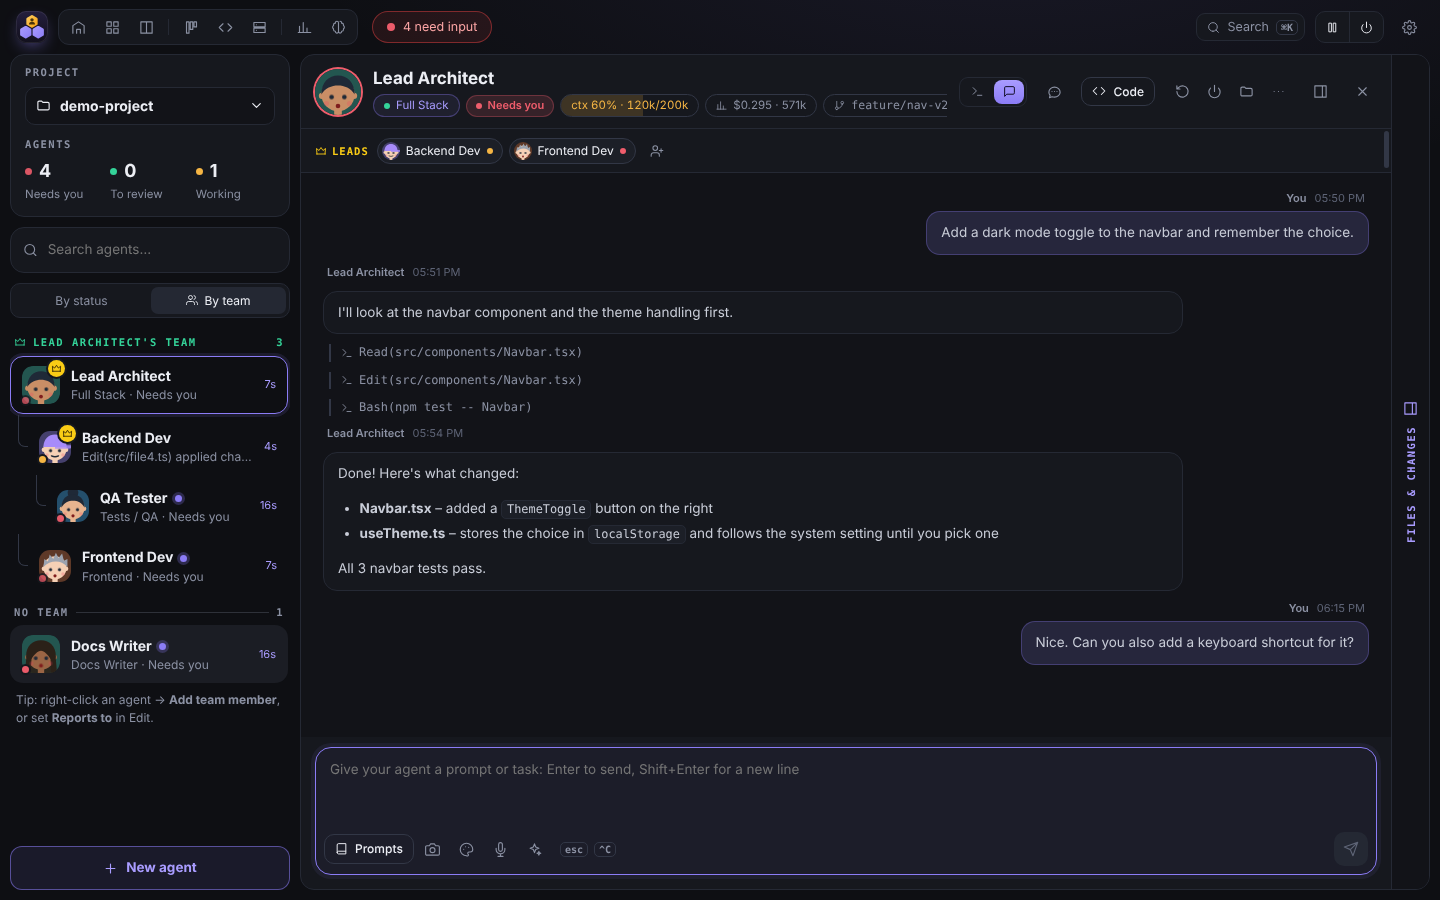
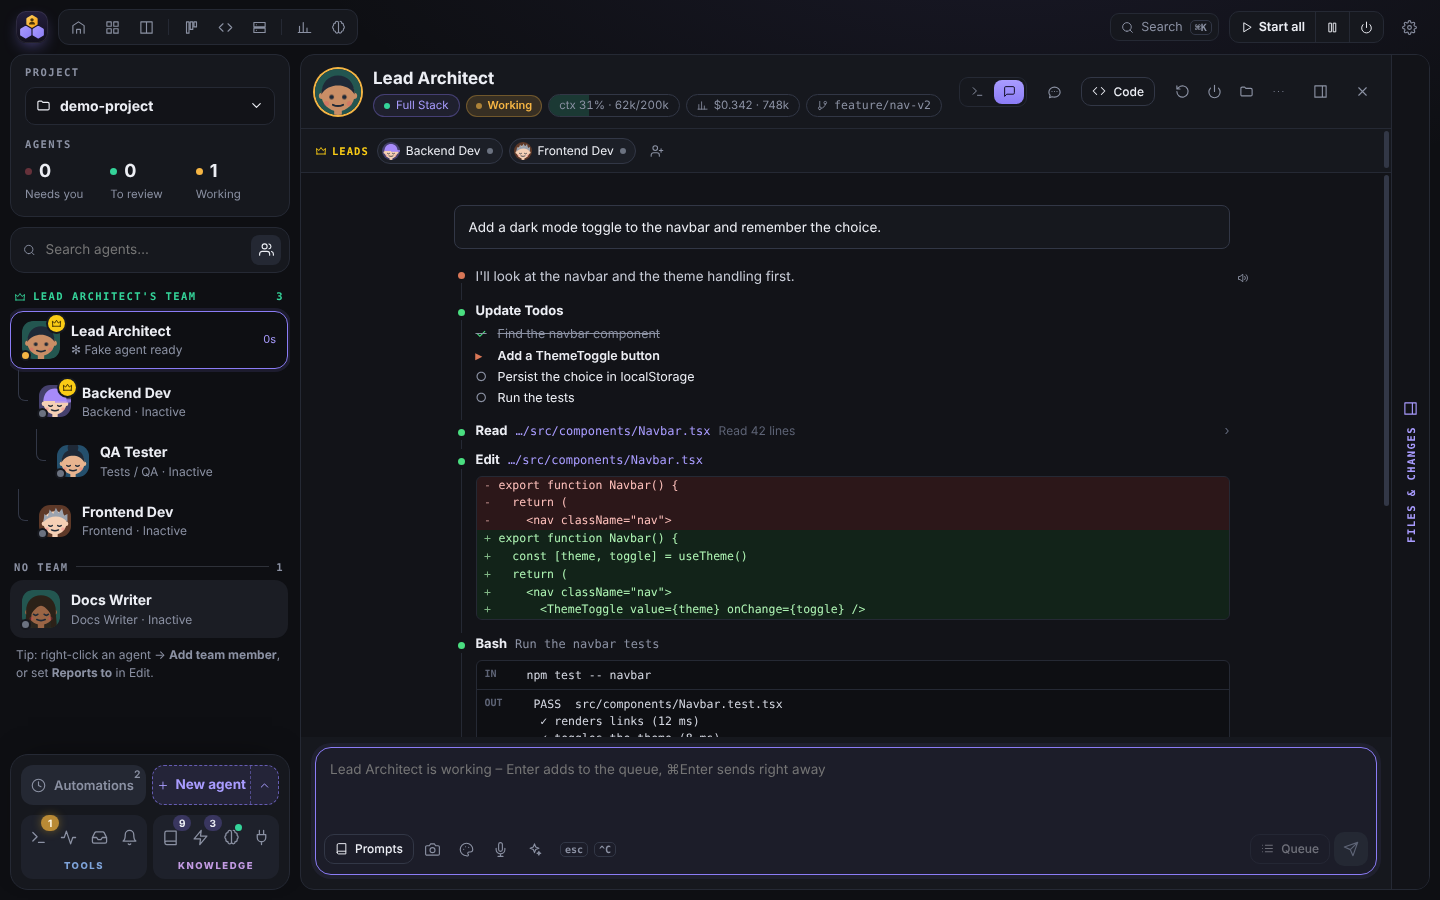
feat(chat): conversation view styled like Claude Code in VS Code
- your messages in boxes, replies as plain text on a timeline with status dots
- tool calls as compact rows: Edit / Write show a red-green diff, Bash shows IN / OUT,
  Read and Search show counts, TodoWrite shows the checklist; others expand
- file names open in the editor; long output collapses with "+N lines"
- "✻ Working…" shimmer with what the agent is doing while a turn runs
- works for Claude Code, Codex and Gemini sessions (tool names normalised)

Claude-Session: https://claude.ai/code/session_01JfQJkDe4SvPCHjX8Yhda88

diff --git a/src/renderer/src/components/ChatView.tsx b/src/renderer/src/components/ChatView.tsx
@@ -1,7 +1,7 @@
 import { useEffect, useMemo, useRef, useState } from 'react'
 import { Marked } from 'marked'
 import DOMPurify from 'dompurify'
-import type { Conversation } from '@shared/chat'
+import type { ChatItem, Conversation } from '@shared/chat'
 import { useStore } from '../store'
 import { Icon } from './common'
 import { fmtTok } from './UsageView'
@@ -47,58 +47,213 @@ export function ContextBadge({ conv }: { conv: Conversation | null }) {
   )
 }
 
-/** The terminal session read as a chat: your messages, replies and collapsed tool calls. */
+/* ---------------- VS Code–style conversation ---------------- */
+
+type Json = Record<string, unknown>
+const parse = (s?: string): Json | null => {
+  if (!s) return null
+  try {
+    return JSON.parse(s) as Json
+  } catch {
+    return null
+  }
+}
+const str = (v: unknown): string => (typeof v === 'string' ? v : v === undefined || v === null ? '' : JSON.stringify(v))
+
+/** normalise tool names across Claude Code, Codex and Gemini */
+function toolKind(name = ''): 'edit' | 'write' | 'read' | 'bash' | 'search' | 'todo' | 'web' | 'task' | 'other' {
+  const n = name.toLowerCase()
+  if (/^(edit|multiedit|replace|apply_patch|str_replace)/.test(n)) return 'edit'
+  if (/^(write|write_file|create_file)/.test(n)) return 'write'
+  if (/^(read|read_file|read_many_files|view|notebookread)/.test(n)) return 'read'
+  if (/^(bash|shell|run_shell_command|local_shell|exec)/.test(n)) return 'bash'
+  if (/^(grep|glob|ls|list_directory|search_file_content|find|search)/.test(n)) return 'search'
+  if (/^(todowrite|update_plan|todo)/.test(n)) return 'todo'
+  if (/^(webfetch|websearch|web_fetch|google_web_search)/.test(n)) return 'web'
+  if (/^(task|agent)/.test(n)) return 'task'
+  return 'other'
+}
+const TOOL_LABEL: Record<string, string> = { edit: 'Edit', write: 'Write', read: 'Read', bash: 'Bash', search: 'Search', todo: 'Update Todos', web: 'Web', task: 'Task' }
+
+function Diff({ oldText, newText }: { oldText: string; newText: string }) {
+  const [all, setAll] = useState(false)
+  const lines = [...oldText.split('\n').map((l) => ['-', l] as const), ...newText.split('\n').map((l) => ['+', l] as const)].filter(([, l], i, arr) => !(l === '' && i === arr.length - 1))
+  const shown = all ? lines : lines.slice(0, 14)
+  return (
+    <div className="cc-diff mono">
+      {shown.map(([k, l], i) => (
+        <div key={i} className={k === '+' ? 'add' : 'del'}><span>{k}</span>{l || ' '}</div>
+      ))}
+      {lines.length > 14 && <button className="cc-more" onClick={() => setAll(!all)}>{all ? 'Show less' : `Show ${lines.length - 14} more lines`}</button>}
+    </div>
+  )
+}
+
+function Output({ text, lines = 6 }: { text: string; lines?: number }) {
+  const [all, setAll] = useState(false)
+  const rows = text.replace(/\s+$/, '').split('\n')
+  if (!text.trim()) return null
+  return (
+    <div className="cc-out mono">
+      <pre>{(all ? rows : rows.slice(0, lines)).join('\n')}</pre>
+      {rows.length > lines && <button className="cc-more" onClick={() => setAll(!all)}>{all ? 'Show less' : `+${rows.length - lines} lines`}</button>}
+    </div>
+  )
+}
+
+function ToolRow({ it, cwd, pending }: { it: ChatItem; cwd: string; pending: boolean }) {
+  const [open, setOpen] = useState(false)
+  const kind = toolKind(it.tool)
+  const a = parse(it.input) ?? {}
+  const file = str(a.file_path ?? a.path ?? a.absolute_path ?? a.notebook_path)
+  const rel = file && cwd && file.startsWith(cwd + '/') ? file.slice(cwd.length + 1) : file.split('/').length > 4 ? `…/${file.split('/').slice(-3).join('/')}` : file
+  const cmd = Array.isArray(a.command) ? (a.command as string[]).join(' ').replace(/^bash -lc /, '') : str(a.command)
+  const label = TOOL_LABEL[kind] ?? it.tool ?? 'Tool'
+  const arg =
+    kind === 'bash' ? str(a.description) || cmd.split('\n')[0]
+    : kind === 'search' ? str(a.pattern ?? a.query ?? a.path)
+    : kind === 'web' ? str(a.url ?? a.query)
+    : kind === 'task' ? str(a.description ?? a.prompt).slice(0, 120)
+    : kind === 'todo' ? ''
+    : rel || it.text.replace(/^[^(]*\(|\)$/g, '')
+  const resLines = (it.result ?? '').split('\n').filter(Boolean).length
+  const summary =
+    kind === 'read' && it.result ? `Read ${resLines} line${resLines === 1 ? '' : 's'}`
+    : kind === 'search' && it.result ? `${resLines} result${resLines === 1 ? '' : 's'}`
+    : ''
+  const openFile = (): void => {
+    if (!file) return
+    if (cwd && file.startsWith(cwd + '/')) useStore.getState().openCode(cwd, file.slice(cwd.length + 1))
+    else window.api.openPath(file)
+  }
+  const edits: { o: string; n: string }[] =
+    kind === 'edit'
+      ? Array.isArray(a.edits)
+        ? (a.edits as Json[]).map((e) => ({ o: str(e.old_string), n: str(e.new_string) }))
+        : [{ o: str(a.old_string ?? a.old_str), n: str(a.new_string ?? a.new_str) }]
+      : []
+  const todos = kind === 'todo' ? ((a.todos ?? a.plan ?? []) as Json[]) : []
+  const body = (() => {
+    if (kind === 'edit' && edits.some((e) => e.o || e.n)) return edits.map((e, i) => <Diff key={i} oldText={e.o} newText={e.n} />)
+    if (kind === 'write' && a.content) return <Diff oldText="" newText={str(a.content).split('\n').slice(0, 200).join('\n')} />
+    if (kind === 'bash')
+      return (
+        <div className="cc-io">
+          <div className="cc-io-row"><span>IN</span><pre className="mono">{cmd}</pre></div>
+          {it.result !== undefined && <div className="cc-io-row"><span>OUT</span><Output text={it.result} lines={8} /></div>}
+        </div>
+      )
+    if (kind === 'todo' && todos.length)
+      return (
+        <ul className="cc-todos">
+          {todos.map((t, i) => {
+            const st = str(t.status)
+            return <li key={i} className={st}><i>{st === 'completed' ? '✓' : st === 'in_progress' ? '▸' : '○'}</i>{str(t.content ?? t.step ?? t.title)}</li>
+          })}
+        </ul>
+      )
+    return null
+  })()
+  const expandable = !body && (it.input && it.input !== '{}' || it.result)
+  return (
+    <div className={`cc-item cc-tool ${it.error ? 'err' : ''} ${pending ? 'pending' : ''}`}>
+      <div className="cc-line" onClick={() => expandable && setOpen(!open)} style={{ cursor: expandable ? 'pointer' : undefined }}>
+        <b>{label}</b>
+        {arg && (kind === 'read' || kind === 'edit' || kind === 'write') && file ? (
+          <button className="cc-file mono" title={file} onClick={(e) => (e.stopPropagation(), openFile())}>{arg}</button>
+        ) : arg ? <span className="cc-arg mono" title={arg}>{arg}</span> : null}
+        {summary && <span className="cc-sum">{summary}</span>}
+        {it.error && <span className="cc-errtag">error</span>}
+        {expandable && <span className={`cc-chev ${open ? 'open' : ''}`}>›</span>}
+      </div>
+      {body}
+      {it.error && it.result && !body && <Output text={it.result} lines={4} />}
+      {open && expandable && (
+        <div className="cc-raw">
+          {it.input && it.input !== '{}' && <pre className="mono">{it.input}</pre>}
+          {it.result && <Output text={it.result} lines={12} />}
+        </div>
+      )}
+    </div>
+  )
+}
+
+/** The agent's session as a conversation – styled like Claude Code in VS Code. */
 export function ChatView({ agentId, conv }: { agentId: string; conv: (Conversation & { none?: boolean }) | null }) {
   const end = useRef<HTMLDivElement>(null)
-  const box = useRef<HTMLDivElement>(null)
   const stick = useRef(true)
+  const agent = useStore((s) => s.app.agents.find((a) => a.id === agentId))
+  const status = useStore((s) => s.runtimes[agentId]?.status)
+  const activity = useStore((s) => s.lastLines[agentId])
+  const [cwd, setCwd] = useState('')
   const [speaking, setSpeaking] = useState<number | null>(null)
   useEffect(() => () => window.speechSynthesis?.cancel(), [])
-  const agent = useStore((s) => s.app.agents.find((a) => a.id === agentId))
+  useEffect(() => {
+    window.api.agentCwd(agentId).then(setCwd).catch(() => undefined)
+  }, [agentId])
   const items = conv?.items ?? []
   const rendered = useMemo(() => items.map((it) => (it.kind === 'tool' ? '' : html(it.text))), [items])
   useEffect(() => {
     if (stick.current) end.current?.scrollIntoView({ block: 'end' })
-  }, [items.length])
+  }, [items.length, status])
 
   if (!agent || !['claude', 'codex', 'gemini'].includes(agent.providerId))
     return <div className="chat-empty muted">The conversation view reads Claude Code, Codex and Gemini sessions. Use the terminal for {agent?.name ?? 'this agent'}.</div>
   if (!conv) return <div className="chat-empty muted">Loading conversation…</div>
   if (conv.none || !items.length)
-    return <div className="chat-empty muted">No conversation yet – it appears here once {agent.name} gets its first message.</div>
+    return (
+      <div className="chat-empty">
+        <div className="cc-hello">
+          <b>{agent.name}</b>
+          <span className="muted">{agent.role} · {agent.providerId === 'claude' ? 'Claude Code' : agent.providerId === 'codex' ? 'Codex' : 'Gemini'}</span>
+          <p className="muted small">Ask for a change below – the conversation shows up here.</p>
+        </div>
+      </div>
+    )
+  const lastUser = items.map((x) => x.kind).lastIndexOf('user')
+  const working = status === 'working'
 
   return (
-    <div className="chat" ref={box} onScroll={(e) => {
+    <div className="cc" onScroll={(e) => {
       const el = e.currentTarget
       stick.current = el.scrollHeight - el.scrollTop - el.clientHeight < 80
     }}>
-      {items.map((it, i) =>
-        it.kind === 'tool' ? (
-          <details key={i} className={`chat-tool ${it.error ? 'err' : ''}`}>
-            <summary><Icon name="terminal" size={12} /> <span className="mono">{it.text}</span>{it.error && <em>error</em>}</summary>
-            {it.input && it.input !== '{}' && <pre className="mono">{it.input}</pre>}
-            {it.result && <pre className="mono res">{it.result}</pre>}
-          </details>
-        ) : (
-          <div key={i} className={`chat-msg ${it.kind}`}>
-            <div className="chat-who">{it.kind === 'user' ? 'You' : agent.name}{it.at ? <time>{new Date(it.at).toLocaleTimeString([], { hour: '2-digit', minute: '2-digit' })}</time> : null}
-              {it.kind === 'assistant' && (
-                <button className={`icon-btn chat-speak ${speaking === i ? 'on' : ''}`} title={speaking === i ? 'Stop reading' : 'Read aloud'} onClick={() => {
-                  if (speaking === i) {
-                    window.speechSynthesis?.cancel()
-                    setSpeaking(null)
-                  } else {
-                    setSpeaking(i)
-                    speak(it.text, () => setSpeaking((x) => (x === i ? null : x)))
-                  }
-                }}><Icon name="volume" size={12} /></button>
-              )}
+      <div className="cc-col">
+        {items.map((it, i) =>
+          it.kind === 'user' ? (
+            <div key={i} className="cc-user">
+              <div className="md-body chat-body" dangerouslySetInnerHTML={{ __html: rendered[i] }} />
+              {it.at ? <time>{new Date(it.at).toLocaleTimeString([], { hour: '2-digit', minute: '2-digit' })}</time> : null}
             </div>
-            <div className="md-body chat-body" dangerouslySetInnerHTML={{ __html: rendered[i] }} />
+          ) : it.kind === 'tool' ? (
+            <ToolRow key={i} it={it} cwd={cwd} pending={working && i > lastUser && it.result === undefined && i === items.length - 1} />
+          ) : (
+            <div key={i} className="cc-item cc-text">
+              <div className="md-body chat-body" dangerouslySetInnerHTML={{ __html: rendered[i] }} />
+              <button className={`icon-btn chat-speak ${speaking === i ? 'on' : ''}`} title={speaking === i ? 'Stop reading' : 'Read aloud'} onClick={() => {
+                if (speaking === i) {
+                  window.speechSynthesis?.cancel()
+                  setSpeaking(null)
+                } else {
+                  setSpeaking(i)
+                  speak(it.text, () => setSpeaking((x) => (x === i ? null : x)))
+                }
+              }}><Icon name="volume" size={12} /></button>
+            </div>
+          )
+        )}
+        {working && (
+          <div className="cc-working">
+            <span className="cc-spark">✻</span>
+            <span className="shimmer">{(() => {
+              const t = (activity ?? '').replace(/^[\s✻✽✢✳∗*·●•⏺>]+/, '').trim()
+              return t && !/^(Working|Thinking)/i.test(t) && !/ready$/i.test(t) ? t : 'Working…'
+            })()}</span>
           </div>
-        )
-      )}
-      <div ref={end} />
+        )}
+        {status === 'waiting' && items[items.length - 1]?.kind !== 'user' && <div className="cc-turn muted small">Waiting for your reply</div>}
+        <div ref={end} />
+      </div>
     </div>
   )
 }

diff --git a/src/renderer/src/styles.css b/src/renderer/src/styles.css
@@ -1470,3 +1470,65 @@ body.resizing-y, body.resizing-y * { cursor: row-resize !important; user-select:
 .mock-ed .srv-bar input { height: 32px; }
 .mock-ed .srv-bar .link-btn { align-self: center; }
 .terminal { overflow: hidden; }
+
+/* ---------- conversation (Claude Code in VS Code style) ---------- */
+.cc { height: 100%; overflow: auto; background: var(--bg-2); padding: 18px 0 28px; }
+.cc-col { max-width: 820px; margin: 0 auto; padding: 0 22px; display: flex; flex-direction: column; gap: 4px; }
+.cc .chat-body { padding: 0 !important; background: none !important; border: 0 !important; border-radius: 0; font-size: 13.5px !important; line-height: 1.65 !important; }
+.cc-user { position: relative; margin: 14px 0 8px; padding: 10px 14px; border-radius: 8px; background: var(--panel); border: 1px solid var(--border-2); }
+.cc-user .chat-body { color: var(--text); }
+.cc-user time { position: absolute; right: 10px; bottom: -16px; font-size: 10.5px; color: var(--dim); opacity: 0; transition: opacity .15s; }
+.cc-user:hover time { opacity: 1; }
+.cc-item { position: relative; padding: 3px 0 3px 22px; }
+.cc-item::before { content: ''; position: absolute; left: 4px; top: 11px; width: 7px; height: 7px; border-radius: 50%; background: var(--muted); }
+.cc-item::after { content: ''; position: absolute; left: 7px; top: 22px; bottom: -6px; width: 1px; background: var(--border); }
+.cc-item:last-of-type::after, .cc-item:has(+ .cc-user)::after, .cc-item:has(+ .cc-working)::after { display: none; }
+.cc-text::before { background: #d97757; }
+.cc-text { padding-top: 4px; padding-bottom: 6px; }
+.cc-text .chat-speak { position: absolute; right: -28px; top: 2px; }
+.cc-text:hover .chat-speak { opacity: 1; }
+.cc-tool::before { background: #4ade80; }
+.cc-tool.err::before { background: #f87171; }
+.cc-tool.pending::before { background: var(--muted); animation: pulse 1.2s infinite; }
+.cc-line { display: flex; align-items: baseline; gap: 8px; min-width: 0; font-size: 13px; }
+.cc-line b { font-weight: 700; color: var(--text); flex: none; }
+.cc-arg, .cc-file { min-width: 0; overflow: hidden; text-overflow: ellipsis; white-space: nowrap; font-size: 12px; color: var(--muted); }
+.cc-file { border: 0; background: none; padding: 0; cursor: pointer; text-align: left; color: var(--accent-2); }
+.cc-file:hover { text-decoration: underline; }
+.cc-sum { font-size: 12px; color: var(--dim); flex: none; }
+.cc-errtag { font-size: 11px; color: #f87171; flex: none; }
+.cc-chev { margin-left: auto; color: var(--dim); transition: transform .15s; flex: none; }
+.cc-chev.open { transform: rotate(90deg); }
+.cc-diff { margin: 6px 0 4px; border: 1px solid var(--border); border-radius: 6px; overflow: hidden; font-size: 11.5px; line-height: 1.55; background: var(--bg); }
+.cc-diff > div { display: flex; white-space: pre-wrap; word-break: break-word; padding: 0 10px 0 0; }
+.cc-diff > div > span { flex: none; width: 22px; text-align: center; opacity: .7; user-select: none; }
+.cc-diff .add { background: rgba(46, 160, 67, .14); color: #aff5b4; }
+.cc-diff .del { background: rgba(248, 81, 73, .13); color: #ffc1bc; }
+:root[data-theme="light"] .cc-diff .add { color: #116329; } :root[data-theme="light"] .cc-diff .del { color: #82071e; }
+.cc-more { display: block; width: 100%; border: 0; border-top: 1px solid var(--border); background: none; color: var(--muted); font-size: 11.5px; padding: 4px; cursor: pointer; }
+.cc-more:hover { color: var(--text); }
+.cc-io { margin: 6px 0 4px; border: 1px solid var(--border); border-radius: 6px; overflow: hidden; background: var(--bg); }
+.cc-io-row { display: grid; grid-template-columns: 40px minmax(0, 1fr); border-top: 1px solid var(--border); }
+.cc-io-row:first-child { border-top: 0; }
+.cc-io-row > span { font: 700 10px ui-monospace, Menlo, monospace; color: var(--dim); padding: 7px 0 0 8px; }
+.cc-io pre, .cc-out pre { margin: 0; padding: 6px 10px; font-size: 11.5px; white-space: pre-wrap; word-break: break-word; max-height: 360px; overflow: auto; color: var(--code-text, var(--text)); }
+.cc-out { min-width: 0; }
+.cc-out .cc-more { text-align: left; padding-left: 10px; }
+.cc-raw { margin: 6px 0; border: 1px solid var(--border); border-radius: 6px; background: var(--bg); overflow: hidden; }
+.cc-raw > pre { margin: 0; padding: 6px 10px; font-size: 11.5px; max-height: 260px; overflow: auto; white-space: pre-wrap; border-bottom: 1px solid var(--border); }
+.cc-todos { list-style: none; margin: 6px 0 4px; padding: 0; font-size: 12.5px; display: flex; flex-direction: column; gap: 3px; }
+.cc-todos li { display: flex; gap: 8px; color: var(--text); }
+.cc-todos li i { font-style: normal; width: 14px; color: var(--muted); }
+.cc-todos li.completed { color: var(--muted); text-decoration: line-through; }
+.cc-todos li.completed i { color: #4ade80; }
+.cc-todos li.in_progress { font-weight: 600; }
+.cc-todos li.in_progress i { color: #d97757; }
+.cc-working { display: flex; align-items: center; gap: 8px; padding: 8px 0 0 2px; font-size: 13px; color: #d97757; }
+.cc-spark { display: inline-block; animation: ccSpin 2.4s linear infinite; }
+@keyframes ccSpin { to { transform: rotate(360deg); } }
+.shimmer { background: linear-gradient(90deg, var(--muted) 0%, var(--text) 50%, var(--muted) 100%); background-size: 200% 100%; -webkit-background-clip: text; background-clip: text; color: transparent; animation: ccShimmer 2s linear infinite; max-width: 640px; overflow: hidden; text-overflow: ellipsis; white-space: nowrap; }
+@keyframes ccShimmer { from { background-position: 200% 0; } to { background-position: -200% 0; } }
+.cc-turn { padding: 10px 0 0 22px; }
+.cc-hello { display: flex; flex-direction: column; align-items: center; gap: 4px; }
+.cc-hello b { font-size: 16px; }
+.cc-todos li.completed i { text-decoration: none; }

diff --git a/src/main/otherclis.ts b/src/main/otherclis.ts
@@ -151,7 +151,7 @@ function parseCodex(path: string): Parsed {
           /* keep raw */
         }
         const cmd = Array.isArray(args.command) ? (args.command as string[]).join(' ') : String(args.command ?? args.path ?? p.input ?? '')
-        const it: ChatItem = { kind: 'tool', tool: p.name ?? 'shell', text: `${p.name ?? 'shell'}(${cmd.replace(/^bash -lc /, '').slice(0, 90)})`, input: JSON.stringify(args, null, 2).slice(0, 4000), at }
+        const it: ChatItem = { kind: 'tool', tool: p.name ?? 'shell', text: `${p.name ?? 'shell'}(${cmd.replace(/^bash -lc /, '').slice(0, 90)})`, input: JSON.stringify(args, null, 2).slice(0, 30000), at }
         items.push(it)
         if (p.call_id) calls.set(p.call_id, it)
       } else if ((p.type === 'function_call_output' || p.type === 'custom_tool_call_output') && p.call_id) {
@@ -199,7 +199,7 @@ function parseGemini(path: string): Parsed {
           kind: 'tool',
           tool: tc.name,
           text: `${tc.displayName ?? tc.name}${arg ? `(${arg})` : ''}`,
-          input: JSON.stringify(args, null, 2).slice(0, 4000),
+          input: JSON.stringify(args, null, 2).slice(0, 30000),
           result: textOf(tc.result?.map?.((r: { functionResponse?: { response?: { output?: string } } }) => ({ text: r.functionResponse?.response?.output ?? '' })) ?? '').slice(0, 4000),
           error: tc.status === 'error',
           at

diff --git a/src/main/transcript.ts b/src/main/transcript.ts
@@ -94,7 +94,7 @@ export async function readConversation(path: string, limit = 400): Promise<Conve
         seen.add(key)
         if (b.type === 'text' && b.text?.trim()) items.push({ kind: 'assistant', text: b.text.trim(), at })
         else if (b.type === 'tool_use' && b.name) {
-          const item: ChatItem = { kind: 'tool', text: toolSummary(b.name, b.input), tool: b.name, input: JSON.stringify(b.input ?? {}, null, 2).slice(0, 4000), at }
+          const item: ChatItem = { kind: 'tool', text: toolSummary(b.name, b.input), tool: b.name, input: JSON.stringify(b.input ?? {}, null, 2).slice(0, 30000), at }
           if (b.id) tools.set(b.id, item)
           items.push(item)
         }
